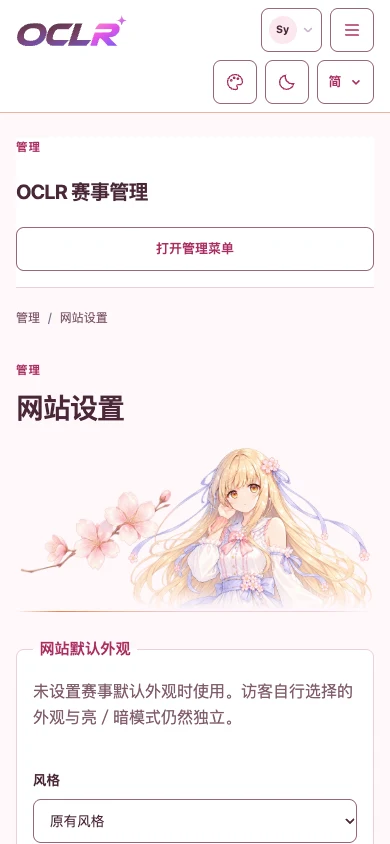
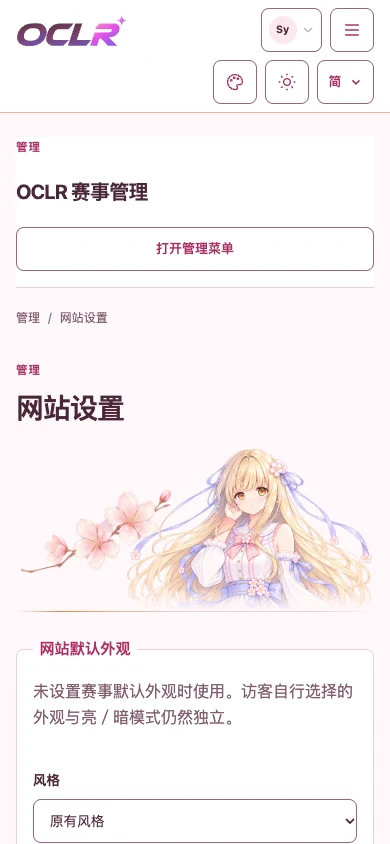
docs(theme): record S8 heroine refinement in actual UI previews

Changed region(s): [[0.3077, 0.5237, 0.9538, 0.7085], [0.7077, 0.0924, 0.7692, 0.1232]]

diff --git a/docs/design/season-themes/s8.html b/docs/design/season-themes/s8.html
@@ -77,8 +77,8 @@
     <header>
       <h1>S8 · 最新應用 UI 設計對照</h1>
       <p>
-        圖片來自 S8 正式接入實作 <code>316c0eb</code> 的實際頁面，UI 基於
-        main <code>a50e03d</code>。使用 SSR 外觀偏好、打包樣式與正式素材；
+        圖片來自 S8 女主角精修 <code>08851a1</code> 的實際頁面，UI 基於
+        main <code>d34378e</code>。使用 SSR 外觀偏好、打包樣式與正式素材；
         花枝已精修，移除強制折角，以少量 1px 橙色印刷線呼應原主視覺，頁首導覽採透明底色與單條細底線。
       </p>
       <p>
@@ -90,6 +90,11 @@
       </p>
     </header>
     <p style="margin: 16px 24px">原始 RULES banner 由主辦方提供；半身角色為參考該圖補全的候選插畫。<a href="s8/ARTWORK.md">素材與完整生成記錄</a></p>
+    <p style="margin: 16px 24px">
+      女主角精修局部：<a href="s8/heroine-937-light.png">937px Light</a> ·
+      <a href="s8/heroine-937-dark.png">Dark</a> ·
+      <a href="s8/heroine-390-light.png">390px 手機</a>（實際頁面原生 2× 截圖）
+    </p>
     <p style="margin: 16px 24px">
       規則區完整 banner：<a href="s8/rules-desktop-light.webp">桌面 Light</a> ·
       <a href="s8/rules-desktop-dark.webp">桌面 Dark</a> ·

diff --git a/docs/design/season-themes/s8/DESIGN.md b/docs/design/season-themes/s8/DESIGN.md
@@ -1,6 +1,8 @@
-# S8 — Sakura Circuit / 櫻花折線 · 初步設計
+# S8 — Sakura Circuit / 櫻花折線
 
 **2026-10-27 正式接入**：初稿已由主辦方確認，本輪註冊 `sakura-circuit`，選單顯示「S8 · 櫻花折線／樱花折线／Sakura Circuit」。本輪依回饋精修花枝：移除標題橙色折角與統計角標，改為細緻櫻花插畫與漸淡分隔線；名稱沿用原 issue，視覺不強求折線元素。正式 CSS 與素材位於 `src/app/sakura-theme.css`／`public/themes/sakura-circuit/`；migration `0047_sakura_circuit_appearance` 僅擴充設定／稽核約束。下文保留初稿產圖時的歷史流程與證據，正式接入驗證另記於 #197。
+
+**目前狀態（2026-10-27）**：PR #378 已合併；本輪女主角修復基於 main `d34378e`，runtime `08851a183a94252bb831988f49d311b2849f5ba3`。下方初稿流程與舊驗證保留為歷史，最新人物與驗證見文末；修復尚未合併或部署。
 
 追蹤：[#197](https://github.com/OCLR-dev/OCLR-website/issues/197)。2026-10-27 依主辦方要求啟動，先交付最新實際 UI 的初稿；本輪另依回饋納入使用者提供的 RULES banner，並選用補全女主角的半身像。尚未註冊正式 appearance。
 
@@ -122,3 +124,22 @@ WebKit 桌面／手機兩項 S8 整合重驗通過；新增導航請求完成等
 依主辦方截圖移除主導覽選取背景；原本 68px 高選取區的 2px border-bottom 與 3px inset shadow 疊加，造成粉色長條與過粗底線。現在主導覽使用透明背景、莓粉選取文字與單條 1px 底線，清除選取陰影。側欄與賽事導覽的選取樣式各自保留。S8 整合檢查加上目前頁面連結不填底色、沒有重複陰影且只有細底線的回歸斷言。
 
 本輪 build、S8 桌面／手機兩項回歸及四項頁首斷點／選單檢查通過；24 組／24 次 Axe AA 與 4 組 forced-colours 通過。回歸測試依主導覽實際 href 進入目前賽事後驗證選取，不假設歷史 S8 是全站目前賽事。一般／hover 的實際量測皆為透明背景、無 box-shadow、1px border-bottom；未重跑無關單元／整合檢查。
+
+
+## 女主角樣貌修復（2026-10-27）
+
+依主辦方對 `/tournaments/s8` 的人物標註，以原 RULES banner 為臉部／眼神／髮型參考，修整雙眼比例、頭部傾斜、臉型及髮絲線稿。保留既有半身姿勢、金髮、琥珀眼、淡藍紫髮帶、櫻花髮飾與衣飾延伸；仍是原圖角色的候選補全，不宣稱未顯示服裝是官方原稿。
+
+正式引用 [heroine-half-refined.webp](heroine-half-refined.webp)，[生成 PNG](heroine-half-refined.png) 與完整內建 image_gen 提示詞保留於 [ARTWORK](ARTWORK.md)。1536×1024 的 PNG 轉為 quality 92 WebP，alpha 逐像素相同，約423KiB，較舊素材451KiB小。使用新檔名避免舊快取，舊素材保留作歷史。只更換人物素材引用，沿用既有340px／手機背景圖、底端淡出、高對比退場與 reduced motion，沒有新增產品文字、依賴、資料、權限或 migration。
+
+[937px Light](heroine-937-light.png)／[Dark](heroine-937-dark.png) · [390px Light](heroine-390-light.png)／[Dark](heroine-390-dark.png)。直接取自實際頁面、繁中與原生2×像素，沒有候選CSS overlay、後製或拼貼；原 banner、主視覺、花枝及版面保持原有設計。圖庫更新到 runtime `08851a1`。
+
+重現時使用獨立 test DB，依上方流程 migrate／prepare／build／start，並執行：
+
+```sh
+S8_REGISTERED_PREVIEW=1 S8_UI_BASELINE=08851a183a94252bb831988f49d311b2849f5ba3 node --import tsx docs/design/season-themes/s8/capture.mjs
+```
+
+工具核對完整 `src`／`messages`／`public` 與 runtime SHA 一致，以正式SSR偏好和素材擷取24組UI／24次Axe AA、4組高對比與四張人物局部。最新實際結果以 [verification.json](verification.json) 與 #197 為準。此輪為插畫素材修復，不重跑未受影響的完整unit/integration、i18n或依賴稽核；既有正式接入證據不是本輪新跑結果，CI與合併／部署各自記錄。
+
+本輪 Node.js24 `npm ci`、check／production build／最終tsc、工具ESLint／語法、文件連結與diff檢查通過。Chrome桌面／手機2項及Safari桌面／手機2項通過，涵蓋三語明暗、正式選單、SSR／跨頁、原圖／原banner、焦點與高對比。24組實際UI／24次Axe AA零違規，4組forced colours通過；16張頁面圖、四張人物2×局部、兩張手機選單與12張default對照已更新。新head的CI狀態另記於#197，未將本機結果稱為完整CI／部署通過。

diff --git a/docs/design/season-themes/s8/ARTWORK.md b/docs/design/season-themes/s8/ARTWORK.md
@@ -1,6 +1,5 @@
 # S8 banner 與角色素材
 
-
 ## 女主角樣貌修整（2026-10-27）
 
 主辦方標註實際 S8 頁面人物，依原 banner 重新修整臉部、雙眼比例、頭部傾斜及髮絲交界。正式引用改為 [heroine-half-refined.webp](heroine-half-refined.webp)，來源為 [內建 image_gen 的 PNG](heroine-half-refined.png)，1536×1024，保留透明 alpha。WebP 使用 quality 92 編碼並逐像素核對 alpha 完全相同，不裁切、調色或後製人物；公開素材與設計資料夾版本逐位元組一致。舊半身素材保留作歷史，原 banner／主視覺原檔不變。仍為原 banner 的候選補全，未宣稱未顯示的衣飾是官方原稿。
@@ -18,10 +17,11 @@ Background must be truly transparent alpha everywhere outside the character and 
 No text, lettering, logos, RULES, watermark, UI, border, floating floral background or extra people. This must be a visibly corrected facial reconstruction matching image 1, not a near-identical copy of image 2.
 ```
 
+## 原始來源與舊版生成紀錄
 
 - 原始 banner：[source-rules-banner.png](source-rules-banner.png)，使用者於本 chat 提供，750×110，原檔逐位元組保留。圖內文字為 `RULES`，用於現有 RulesHandbook 封面位置，完整 contain，不重繪／改字。
 - 原始主視覺：[thumbnail.jpg](../../../../public/archive/s8/thumbnail.jpg)，1920×1080，仍完整無框呈現，不改字／裁切／調色。
-- 選用角色：[heroine-half.webp](heroine-half.webp)／[生成 PNG](heroine-half.png)，1536×1024、透明 alpha。依使用者「補全女主角」與後續「僅取半身像」要求，以原 banner 為參考，先補全再製成半身構圖。保持金髮、琥珀眼、淡藍紫髮帶及手靠臉的姿態；未顯示衣飾為候選延伸，非原圖還原保證。WebP 僅編碼轉換，無裁切／重繪。
+- 舊版角色（歷史）：[heroine-half.webp](heroine-half.webp)／[生成 PNG](heroine-half.png)，1536×1024、透明 alpha。依使用者「補全女主角」與後續「僅取半身像」要求，以原 banner 為參考，先補全再製成半身構圖。保持金髮、琥珀眼、淡藍紫髮帶及手靠臉的姿態；未顯示衣飾為候選延伸，非原圖還原保證。WebP 僅編碼轉換，無裁切／重繪。
 - [sakura-sprig.svg](sakura-sprig.svg)：本次以 SVG 自繪的五瓣缺口櫻花、細枝與橙色折角，用於標題留白。
 
 工具：內建 `image_gen`（imagegen skill），未使用 CLI 或 API key。原角色未提供作者／角色名，本次不推測來源或官方合作；素材 provenance 保留使用者原圖與完整提示詞，待主辦方確認。
